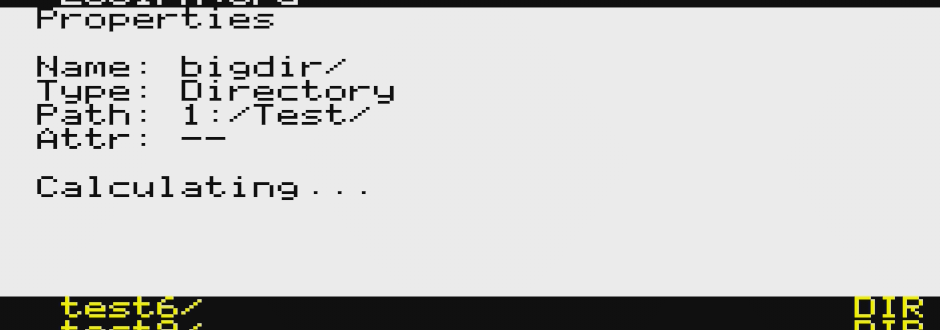
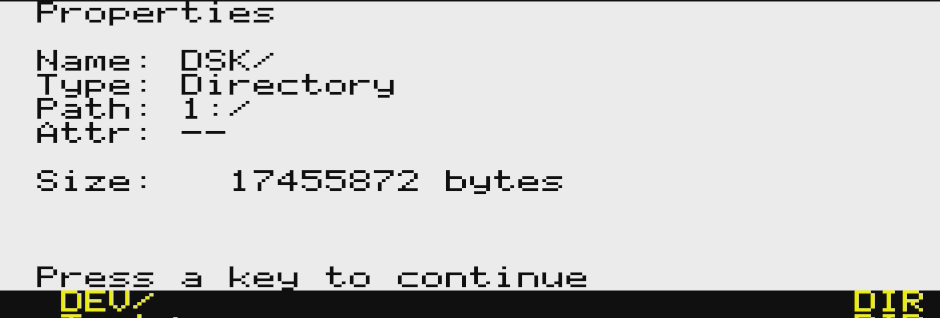
README: document and screenshot the Properties live progress/ESC-cancel
Replaces the stale "Calculating..." capture with an updated screenshot
showing the running "Calculating... N" count plus the directory name,
and adds a new screenshot for the "Press ESC to cancel." hint shown
during the recursive size calculation.

diff --git a/README.md b/README.md
@@ -506,9 +506,11 @@ Shows a popup listing the filenames presently mounted to drives A-D, the tape de
 Shows a popup with details about the present file or directory:
 - Name, type and the active path. Type is shown as a description: "Directory" for directories, ".DSK - Disk image", ".TAP - Tape image", ".ROM - ROM image", ".LCE - LOCI Executable", ".CFG - Config file" or ".SYS - System file" for those file types (matched case-insensitively), and the file's own extension (e.g. ".TXT") for any other file
 - Attributes: R (read-only) and S (system), shown as a dash (-) if not set
-- Size in bytes. For a directory, the size is calculated recursively over all files in its tree; while calculating, "Calculating..." is shown, and pressing **ESC** cancels the calculation, after which "Cancelled." is shown instead of a size. If the directory tree is deeper than 8 levels, the total is shown with a trailing "+" to indicate it may be incomplete.
+- Size in bytes. For a directory, the size is calculated recursively over all files in its tree; while calculating, the popup shows "Calculating... N" (a running count of directories entered so far) together with the name of the directory currently being scanned, plus a "Press ESC to cancel." hint -- pressing **ESC** cancels the calculation, after which "Cancelled." is shown instead of a size. If the directory tree is deeper than 8 levels, the total is shown with a trailing "+" to indicate it may be incomplete.
 
 ![Tools: Properties (file)](screenshots/LociFM-menu-tools-properties.png)
+
+![Tools: Properties (directory, calculating)](screenshots/LociFM-menu-tools-properties-dir-calc.png)
 
 ![Tools: Properties (directory)](screenshots/LociFM-menu-tools-properties-dir.png)
 